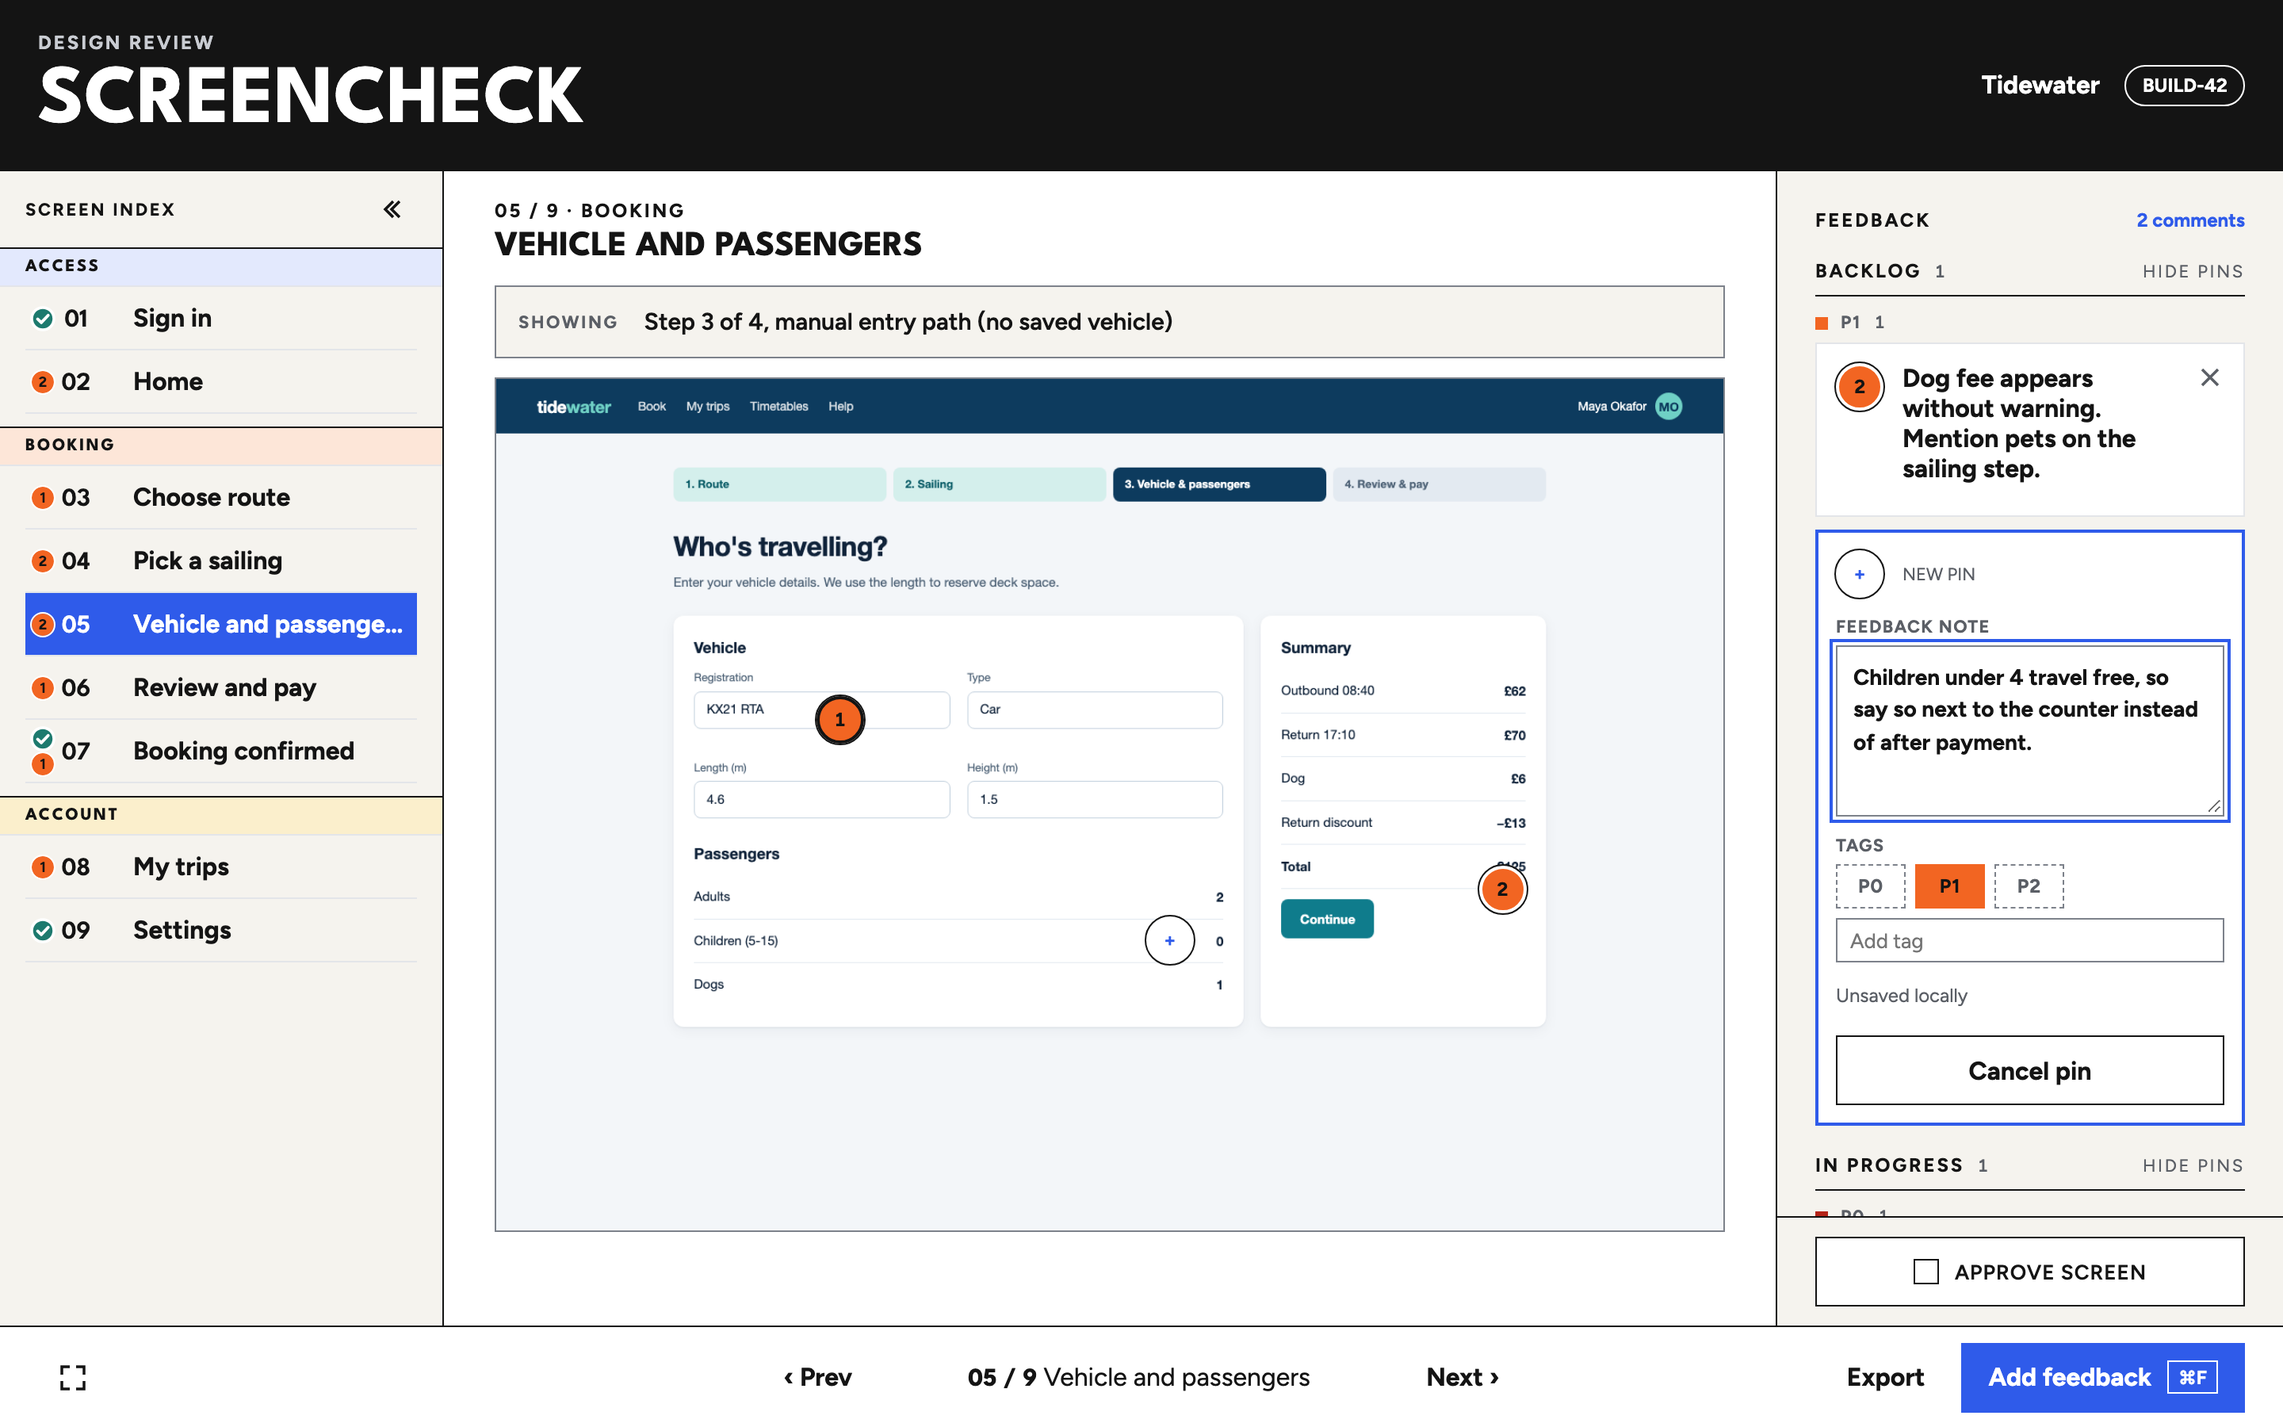
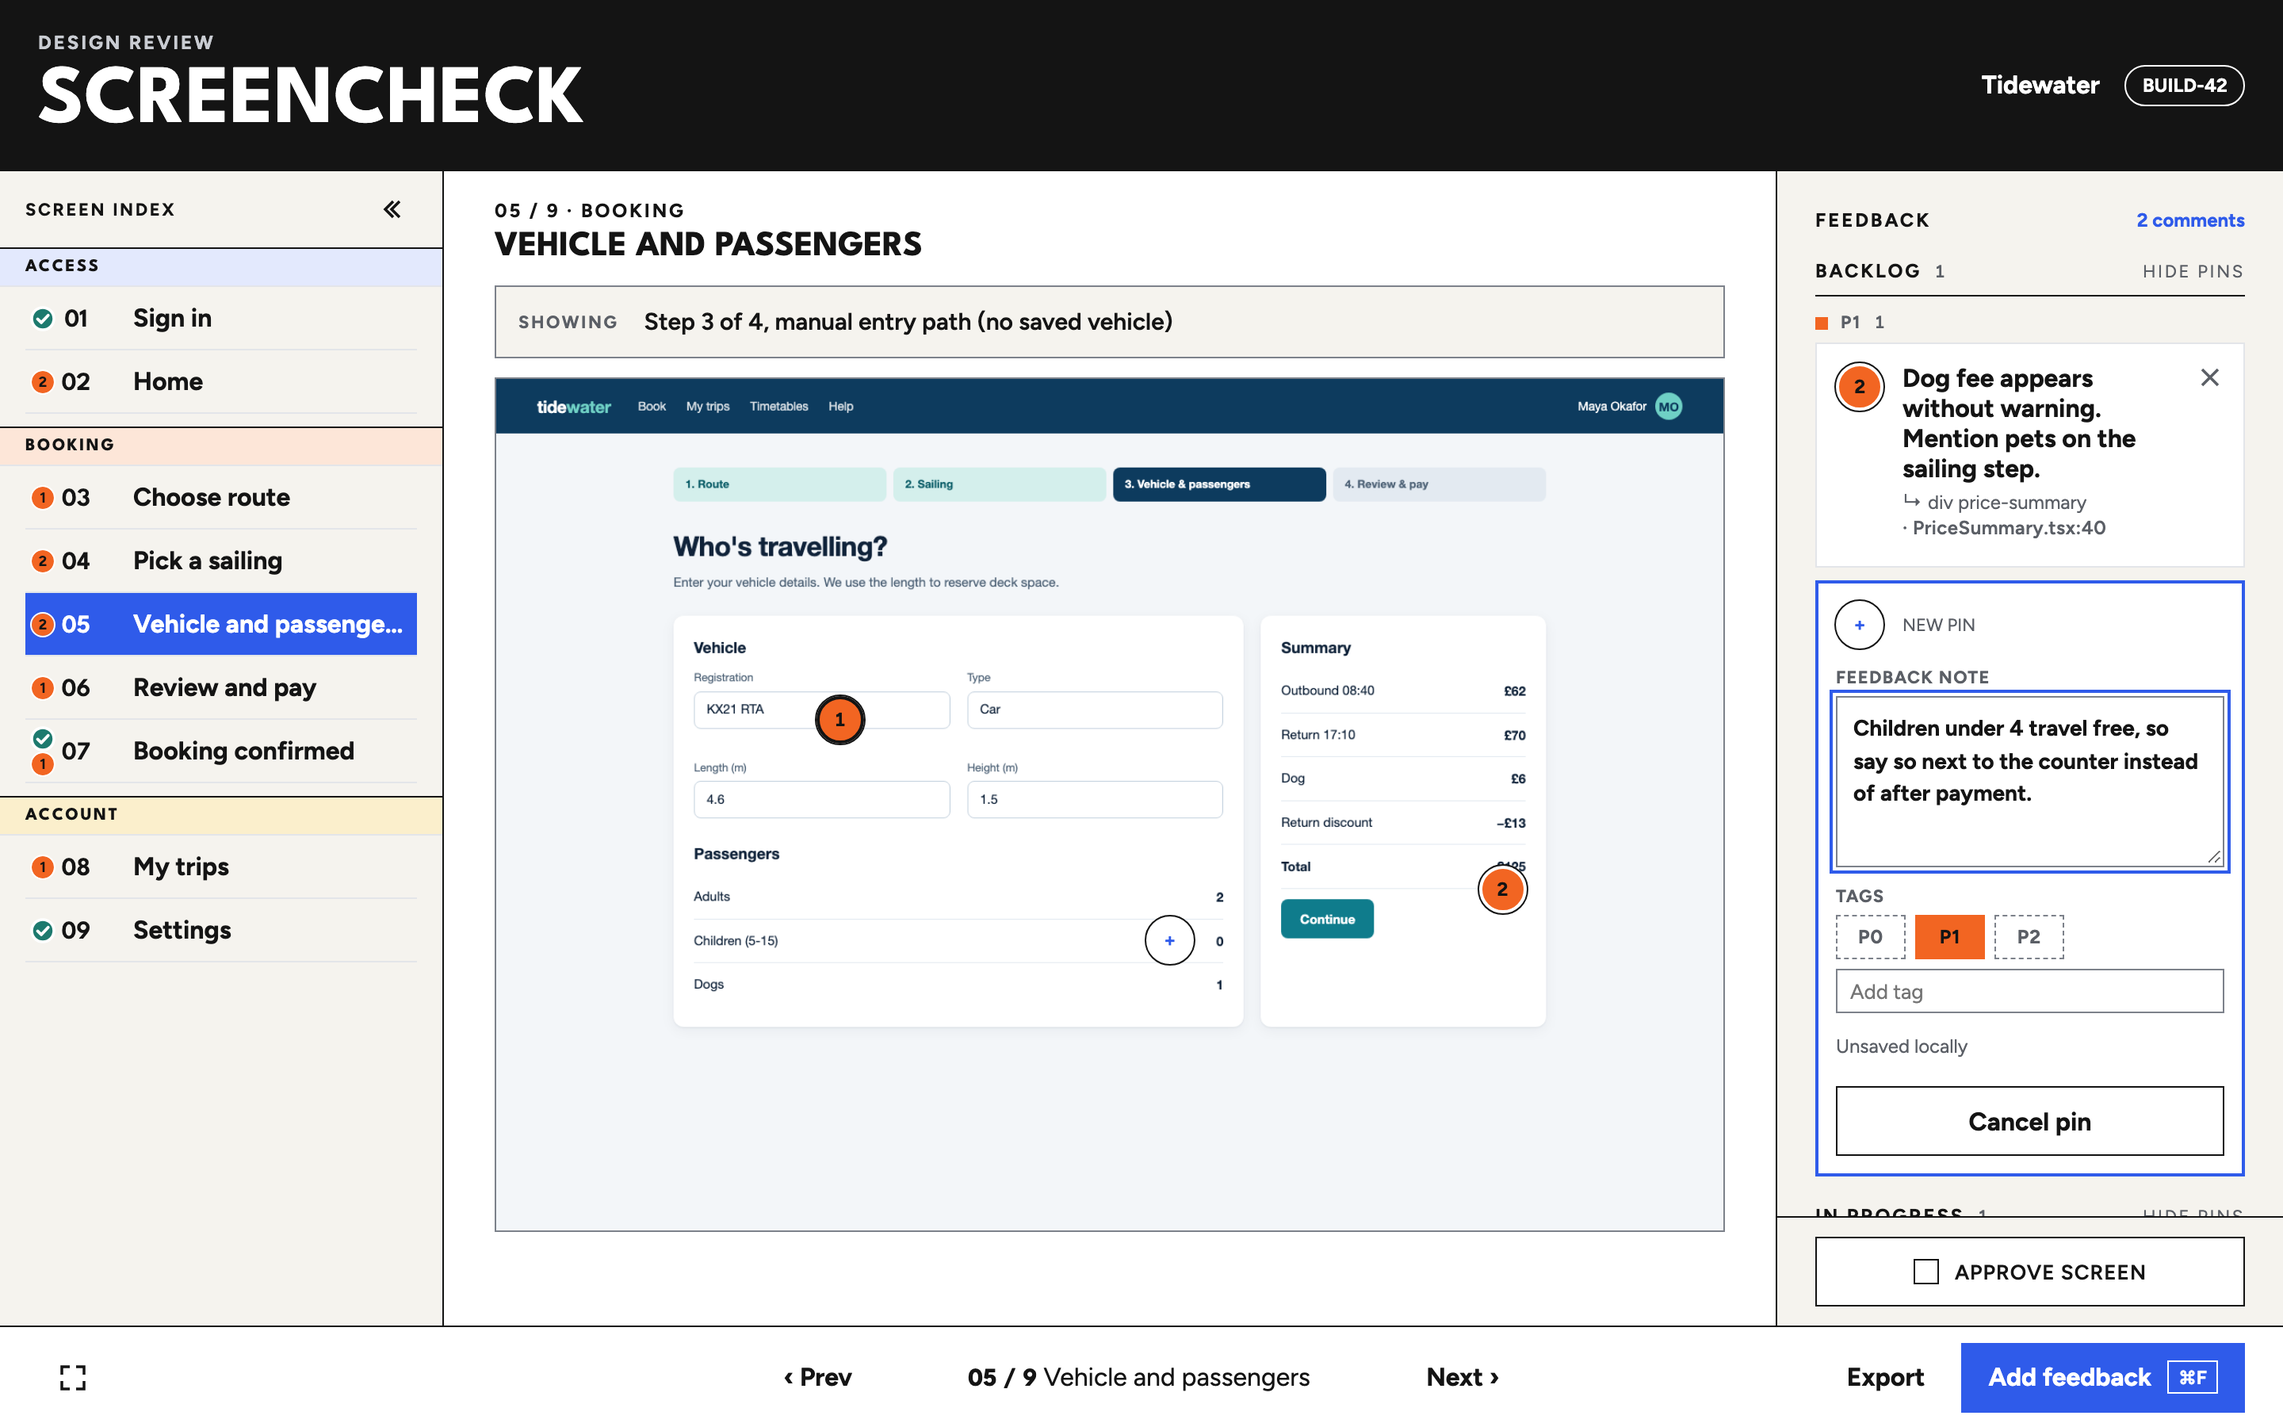
Site, README and roadmap for MCP, element maps, Verify, threads and the CLI
Regenerates every site shot and adds a thread shot. The roadmap marks the
top five shipped; npm publishing is still to do.

Copilot-Session: 70ee0a7d-6d69-4048-ab99-52f2c6485819

Changed region(s): [[0.7812, 0.3422, 1.0, 0.84]]

diff --git a/docs/index.html b/docs/index.html
@@ -343,6 +343,10 @@
         gap: var(--space-6);
         align-items: center;
       }
+      .figures {
+        display: grid;
+        gap: var(--space-4);
+      }
       .feature:nth-of-type(even) .feature-grid {
         grid-template-columns: 7fr 5fr;
       }
@@ -652,7 +656,8 @@
               <p class="lede">
                 Capture every screen of your app, drop numbered pins where the
                 problems are, and approve screens one by one. When an agent
-                fixes a pin, it says what it changed, right on the card.
+                fixes a pin, it says what it changed, right on the card, and you
+                verify it.
               </p>
               <div class="actions">
                 <a class="btn btn-orange" href="#install">Run it locally</a>
@@ -730,7 +735,7 @@
               </li>
               <li>
                 <a href="#f3"
-                  ><span class="dot">3</span><span>Agent replies</span></a
+                  ><span class="dot">3</span><span>Replies and verify</span></a
                 >
               </li>
               <li>
@@ -803,8 +808,8 @@
                 </li>
                 <li><b>P0, P1, P2</b> priorities plus any free-text tags.</li>
                 <li>
-                  The card you're typing in never jumps, even when it changes
-                  group.
+                  Captured with the helper, each pin names the element under it:
+                  <code>↳ button "Return" · TripTypeToggle.tsx:24</code>.
                 </li>
               </ul>
             </div>
@@ -831,14 +836,14 @@
               <h2 id="f2-title">Sort by status</h2>
               <p>
                 Comments group into <b>Backlog</b>, <b>In progress</b>,
-                <b>Fixed</b> and <b>Won't fix</b>, then by priority. Each group
-                has its own <b>Hide pins</b> switch, so you can clear the screen
-                of everything except what still needs work.
+                <b>Fixed</b>, <b>Verified</b> and <b>Won't fix</b>, then by
+                priority. Each group has its own <b>Hide pins</b> switch, so you
+                can clear the screen of everything except what still needs work.
               </p>
               <ul>
                 <li>
-                  <span class="tag t-teal">Fixed</span> pins turn teal with a
-                  check and start hidden.
+                  <span class="tag t-teal">Fixed</span> and Verified pins turn
+                  teal with a check and start hidden.
                 </li>
                 <li>
                   Empty groups disappear; untagged comments sit under their
@@ -867,30 +872,48 @@
               <span class="num" aria-hidden="true">3</span>
               <h2 id="f3-title">Agents close the loop</h2>
               <p>
-                Whoever fixes a comment can reply on it: what changed, or why it
-                won't. The reply sits under the note on the card, survives later
-                status changes and appears in exports.
+                Whoever fixes a comment replies on it: what changed, or why it
+                won't. Fixed isn't done until you say so. Every Fixed card has
+                <b>Verify</b> and <b>Reopen</b>; only a reviewer can verify.
               </p>
               <ul>
-                <li>One call sets the reply and the status.</li>
                 <li>
-                  Works from any agent with <code>node</code>.
-                  <a href="#agents">See the commands</a>.
+                  Replies and your answers form a thread on the comment, kept
+                  through status changes and in exports.
+                </li>
+                <li>Reopen asks why and sends the comment back to Backlog.</li>
+                <li>
+                  Agents reply from the CLI or over MCP.
+                  <a href="#agents">See how</a>.
                 </li>
               </ul>
             </div>
-            <figure>
-              <img
-                src="assets/agent-reply.png"
-                width="2880"
-                height="1800"
-                loading="lazy"
-                alt="The Choose route screen. Under Fixed, a teal pin's card shows the original note and an agent reply: Moved the saving into the Return button label and made Return the default."
-              />
-              <figcaption>
-                A Fixed comment with the agent's reply underneath.
-              </figcaption>
-            </figure>
+            <div class="figures">
+              <figure>
+                <img
+                  src="assets/agent-reply.png"
+                  width="2880"
+                  height="1800"
+                  loading="lazy"
+                  alt="The Choose route screen. Under Fixed, a teal pin's card shows the note, the element under the pin (button Return, TripTypeToggle.tsx:24), the agent's latest reply, and Verify and Reopen buttons."
+                />
+                <figcaption>
+                  A Fixed comment waiting on the reviewer: Verify or Reopen.
+                </figcaption>
+              </figure>
+              <figure>
+                <img
+                  src="assets/thread.png"
+                  width="2880"
+                  height="1800"
+                  loading="lazy"
+                  alt="The same comment opened in the editor. Below the note, a thread: the agent's reply, the reviewer asking for the teal accent, and the agent's second reply."
+                />
+                <figcaption>
+                  Open the comment to read the whole thread.
+                </figcaption>
+              </figure>
+            </div>
           </div>
         </section>
 
@@ -1044,32 +1067,39 @@
             </p>
             <ol class="steps">
               <li>Review the build and pin what's wrong.</li>
-              <li>Export the backlog as Markdown and hand it to the agent.</li>
               <li>
-                The agent fixes each comment and replies with
-                <code>reply.mjs</code>.
+                Point the agent at ScreenCheck over MCP, or hand it a Markdown
+                export.
               </li>
-              <li>Recapture, read the replies and approve the screen.</li>
+              <li>The agent fixes each comment, replies and marks it Fixed.</li>
+              <li>
+                Recapture, verify or reopen each fix, and approve the screen.
+              </li>
             </ol>
           </div>
           <div>
-            <pre><code><span class="c"># Open comments: id, screen, pin, status, tags, note</span>
-<span class="k">node</span> scripts/reply.mjs --project tidewater --list
+            <pre><code><span class="c"># MCP: Copilot CLI, Claude Code or VS Code</span>
+<span class="k">claude</span> mcp add screencheck -- screencheck mcp
+
+<span class="c"># Tools: list_projects, list_feedback, get_comment,</span>
+<span class="c"># reply, set_status, approval_status</span></code></pre>
+            <p style="margin-top: var(--space-3)">
+              <code>get_comment</code> returns the note, the element under the
+              pin and a crop of the capture with the pin circled, so the agent
+              sees what you saw.
+            </p>
+            <pre><code><span class="c"># Or from a shell: list open comments</span>
+<span class="k">screencheck</span> reply --project tidewater --list
 
 <span class="c"># Say what changed and mark it Fixed</span>
-<span class="k">node</span> scripts/reply.mjs --project tidewater \
+<span class="k">screencheck</span> reply --project tidewater \
   --id &lt;feedbackId&gt; --status fixed --author Copilot \
   --note "Moved the saving into the Return button label."</code></pre>
-            <pre><code><span class="c"># Or explain why not</span>
-<span class="k">node</span> scripts/reply.mjs --project tidewater \
-  --id &lt;feedbackId&gt; --status wont-fix \
-  --note "Keeping it: most repeat bookings start here."</code></pre>
             <p style="margin-top: var(--space-3)">
               <code>--status</code> takes <code>fixed</code>,
               <code>wont-fix</code>, <code>in-progress</code> or
-              <code>backlog</code>. Leave it out to reply without moving the
-              comment. If you edit the same comment at that moment, the script
-              re-reads and retries once.
+              <code>backlog</code>. Agents can't mark a comment Verified; that
+              stays with you.
             </p>
           </div>
         </div>
@@ -1084,12 +1114,14 @@
               <h3>1. Start it</h3>
               <p>
                 Node 22 or later. The server listens on
-                <code>127.0.0.1:4173</code> only.
+                <code>127.0.0.1:4173</code> only. <code>npm link</code> puts
+                <code>screencheck</code> on your path; it isn't on npm yet.
               </p>
               <pre><code>git clone https://github.com/alexselig/screencheck
 cd screencheck
 npm install
-npm run dev</code></pre>
+npm run build &amp;&amp; npm link
+screencheck serve --open</code></pre>
             </div>
             <div>
               <h3>2. Capture your screens</h3>

diff --git a/ROADMAP.md b/ROADMAP.md
@@ -28,15 +28,15 @@ closest commercial analogue and is cloud SaaS.
 
 **Where it is exposed:**
 
-- **No MCP server.** Every peer shipped one in 2025–26, so it is now table stakes.
+- ~~**No MCP server.**~~ Shipped (#1).
 - **Onboarding means hand-writing project JSON** and writing your own capture
   script.
-- **Pins are pixels, not code.** The agent still has to work out which element
-  and which file a pin means. The "agent playing detective" problem is what
-  stagewise, React Grab and Cursor Design Mode exist to solve.
+- ~~**Pins are pixels, not code.**~~ Element maps shipped (#2); captures
+  taken before them still leave the agent guessing which element and file a
+  pin means.
 - **No version-to-version view**, even though versions are the core data model.
-- **"Fixed" is the agent's word against nobody's.** Nothing shows the reviewer
-  the before and after, and there is no way to verify a fix.
+- **"Fixed" is the agent's word against nobody's.** Verify shipped (#3);
+  before/after crops (#9) are still to come.
 
 ## Ranking method
 
@@ -52,6 +52,12 @@ Ties go to whatever unblocks later items.
 ## Stack-ranked features
 
 ### Now: close the agent loop
+
+**Shipped in October 2026.** All five items below are on `main`: the MCP
+server (`screencheck mcp`), element maps written by `captureFullPage`, the
+reviewer-only Verified status with Verify/Reopen and the approval check,
+threaded replies (`schemaVersion: 2`), and the `screencheck` CLI. Still open:
+publishing the package to npm (it builds and packs; `npm link` until then).
 
 | #   | Feature                                                                                                                                                                                                                                                                                                                                                                                                                                                                                      | Why it ranks here                                                                                                                                                                                     | Effort |
 | --- | -------------------------------------------------------------------------------------------------------------------------------------------------------------------------------------------------------------------------------------------------------------------------------------------------------------------------------------------------------------------------------------------------------------------------------------------------------------------------------------------- | ----------------------------------------------------------------------------------------------------------------------------------------------------------------------------------------------------- | ------ |
@@ -122,10 +128,10 @@ Success measures:
 
 ## Housekeeping before the milestone
 
-- Fix the failing `tests/screen-caption.test.tsx` "Escape cancels without saving".
-- Move `scripts/reply.mjs` into the CLI and keep a shim for the old path.
-- Version the on-disk schema (`feedback.json` gets a `schemaVersion`) before
-  threads (#4) and carried pins (#8) change its shape.
+- [x] Fix the failing `tests/screen-caption.test.tsx` "Escape cancels without saving".
+- [x] Move `scripts/reply.mjs` into the CLI and keep a shim for the old path.
+- [x] Version the on-disk schema (`feedback.json` gets a `schemaVersion`) before
+      threads (#4) and carried pins (#8) change its shape.
 
 ## Sources
 

diff --git a/README.md b/README.md
@@ -23,6 +23,13 @@ with screenshots).
 npx screencheck serve --open
 ```
 
+Not on npm yet. Until it is, from a clone:
+
+```bash
+npm install && npm run build && npm link   # puts `screencheck` on your PATH
+screencheck serve --open
+```
+
 The server binds to `http://127.0.0.1:4173` (`--port` to change it) and
 records itself in `~/.screencheck/server.json`, so the other commands find it
 without a port. Throwaway servers (demos, scripts) can set `SCREENCHECK_RECORD=0`
@@ -215,7 +222,7 @@ HTTP API above: it never reads feedback files itself, and it only talks to a
 ScreenCheck on loopback (`127.0.0.1`, `localhost` or `[::1]`).
 
 It finds the running server on its own: `--url`, then `SCREENCHECK_URL`, then
-`~/.screencheck/server.json` (written by `npm run dev`), then port 4173. It
+`~/.screencheck/server.json` (written by `screencheck serve` and `npm run dev`), then port 4173. It
 looks this up on every call, so it can start before ScreenCheck does; until
 then each tool says ScreenCheck isn't running.
 
@@ -234,6 +241,10 @@ Markdown export is also a resource (`screencheck://project/<id>/feedback.md`),
 and the `fix_open_feedback` prompt walks an agent through the open P0 and P1
 comments. Replies are signed `Agent` unless the tool call passes `author` or
 the server is started with `--author <name>` (or `SCREENCHECK_AUTHOR`).
+
+With `screencheck` on your PATH (see Install), the command is
+`screencheck mcp`; from a clone without linking, use
+`npx tsx /path/to/screencheck/src/mcp/main.ts` as below.
 
 **Copilot CLI** (`~/.copilot/mcp-config.json`):
 
